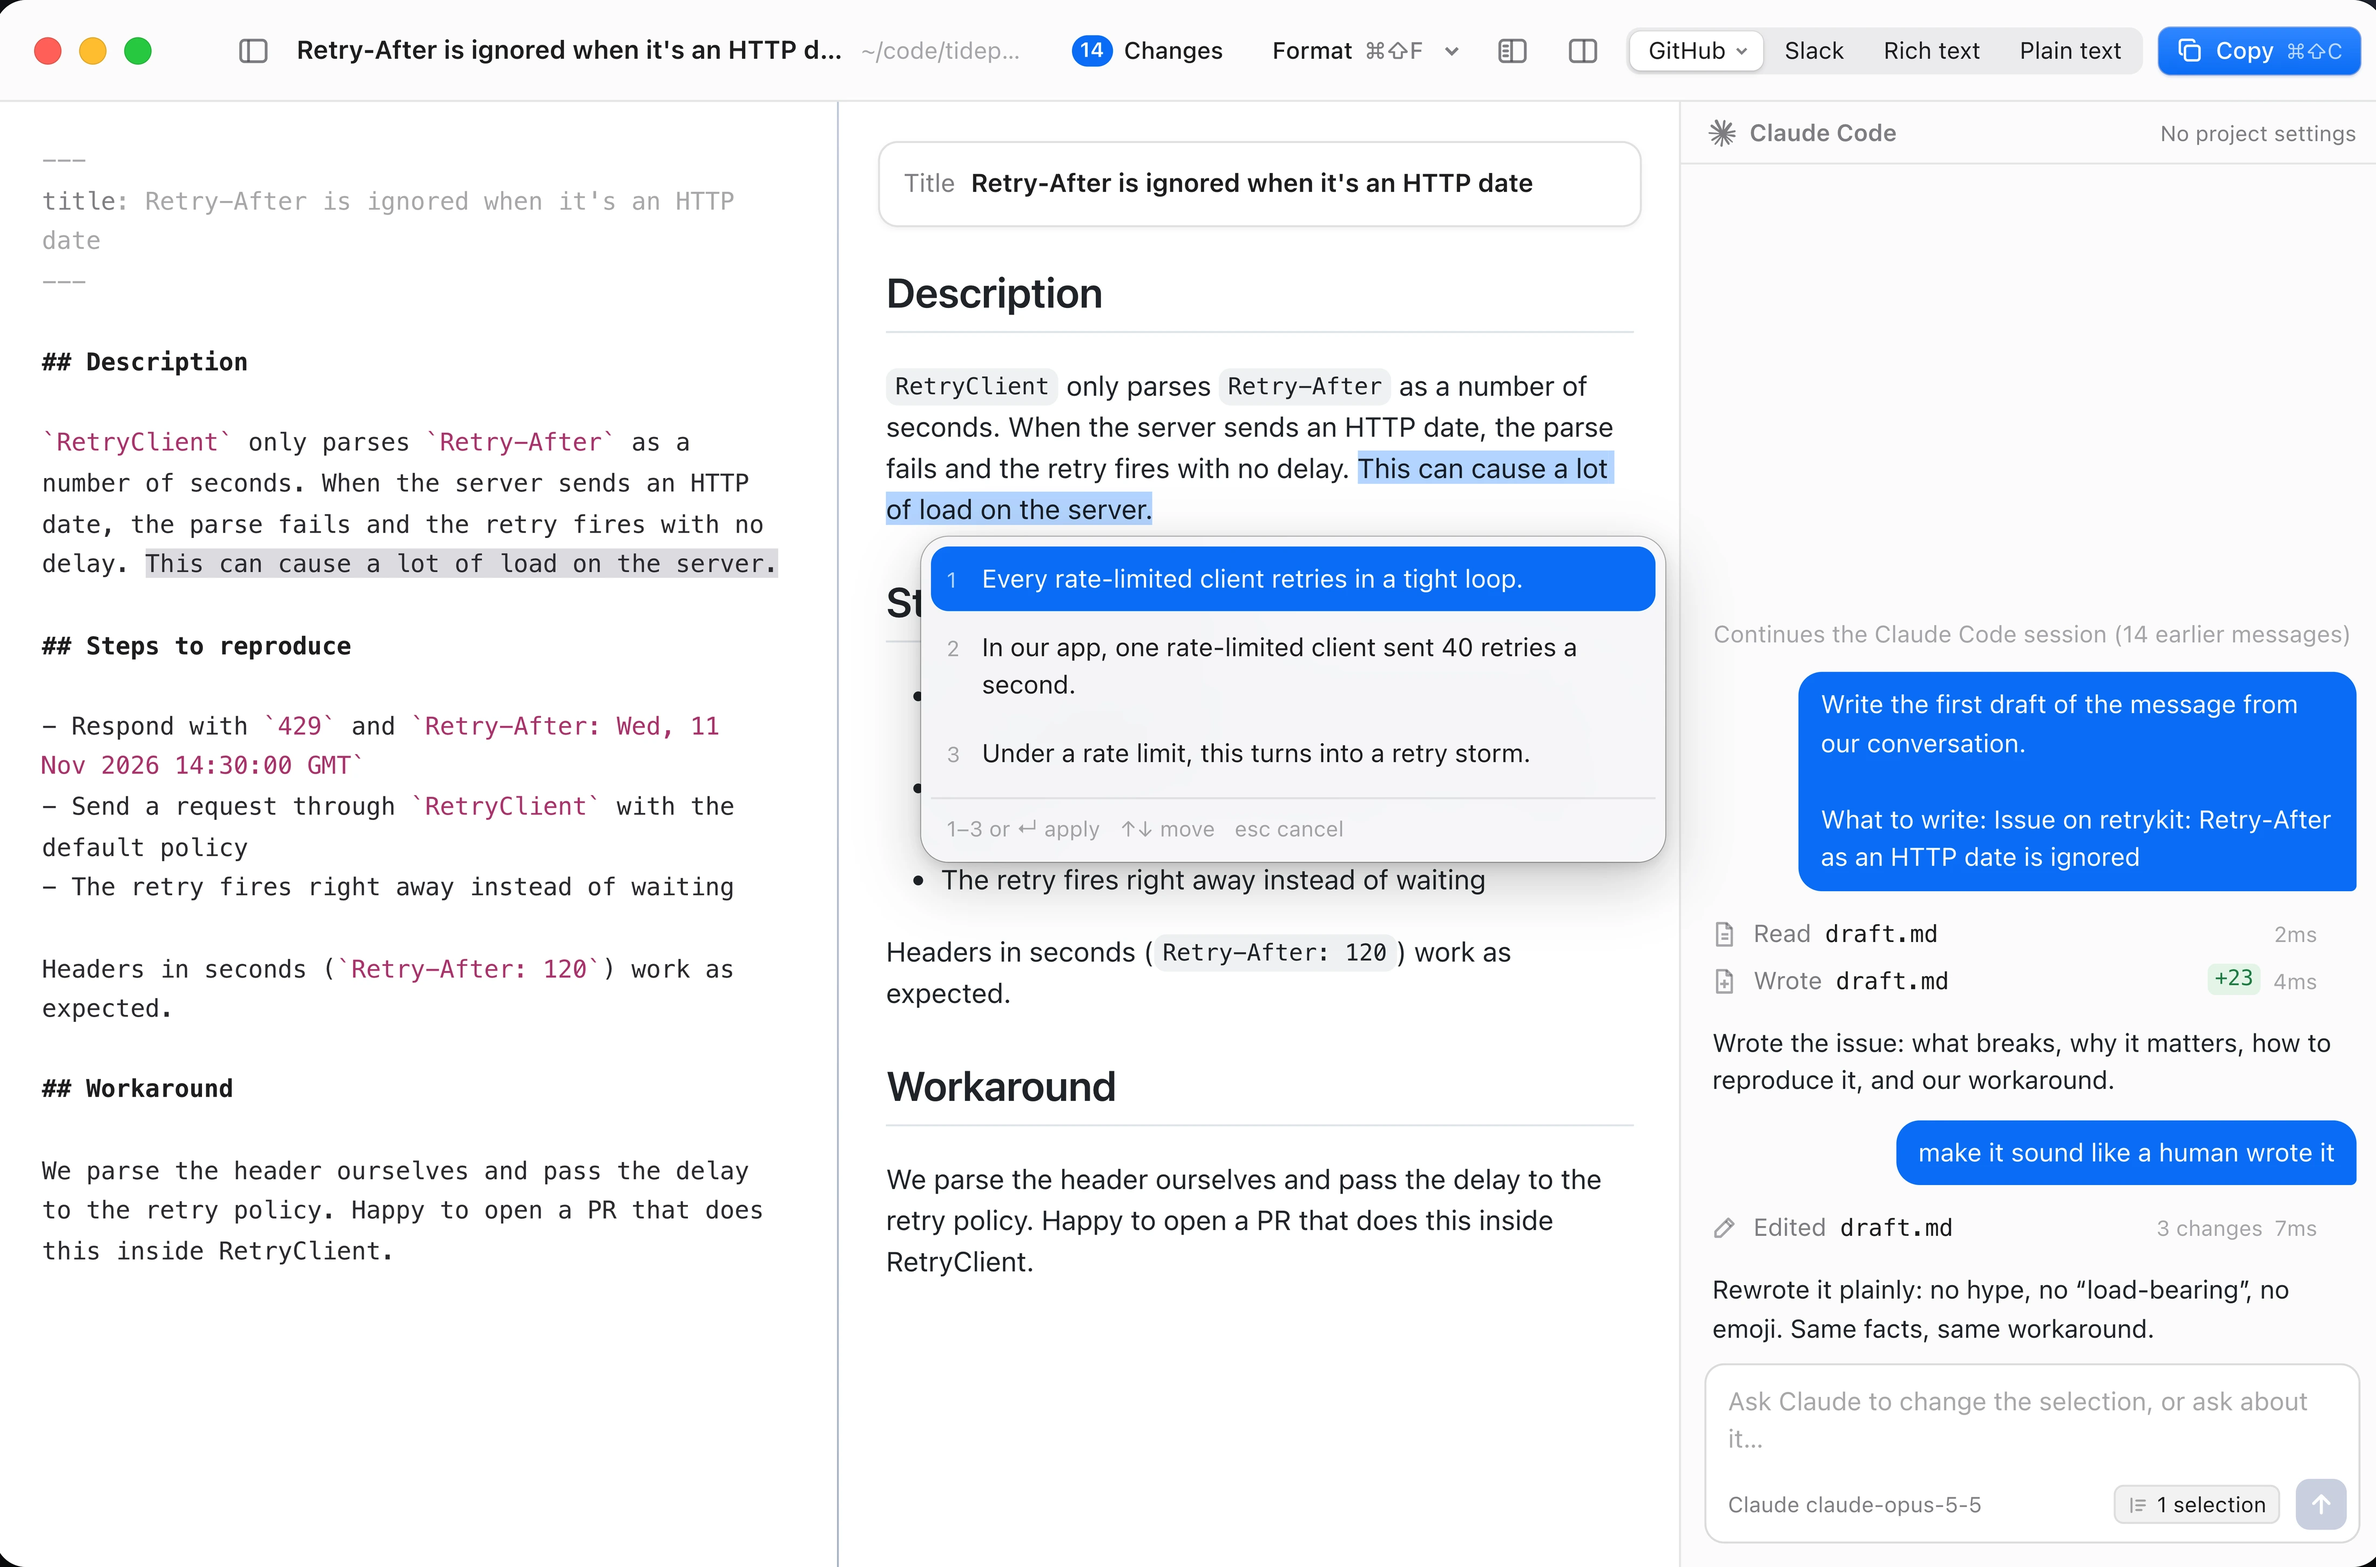
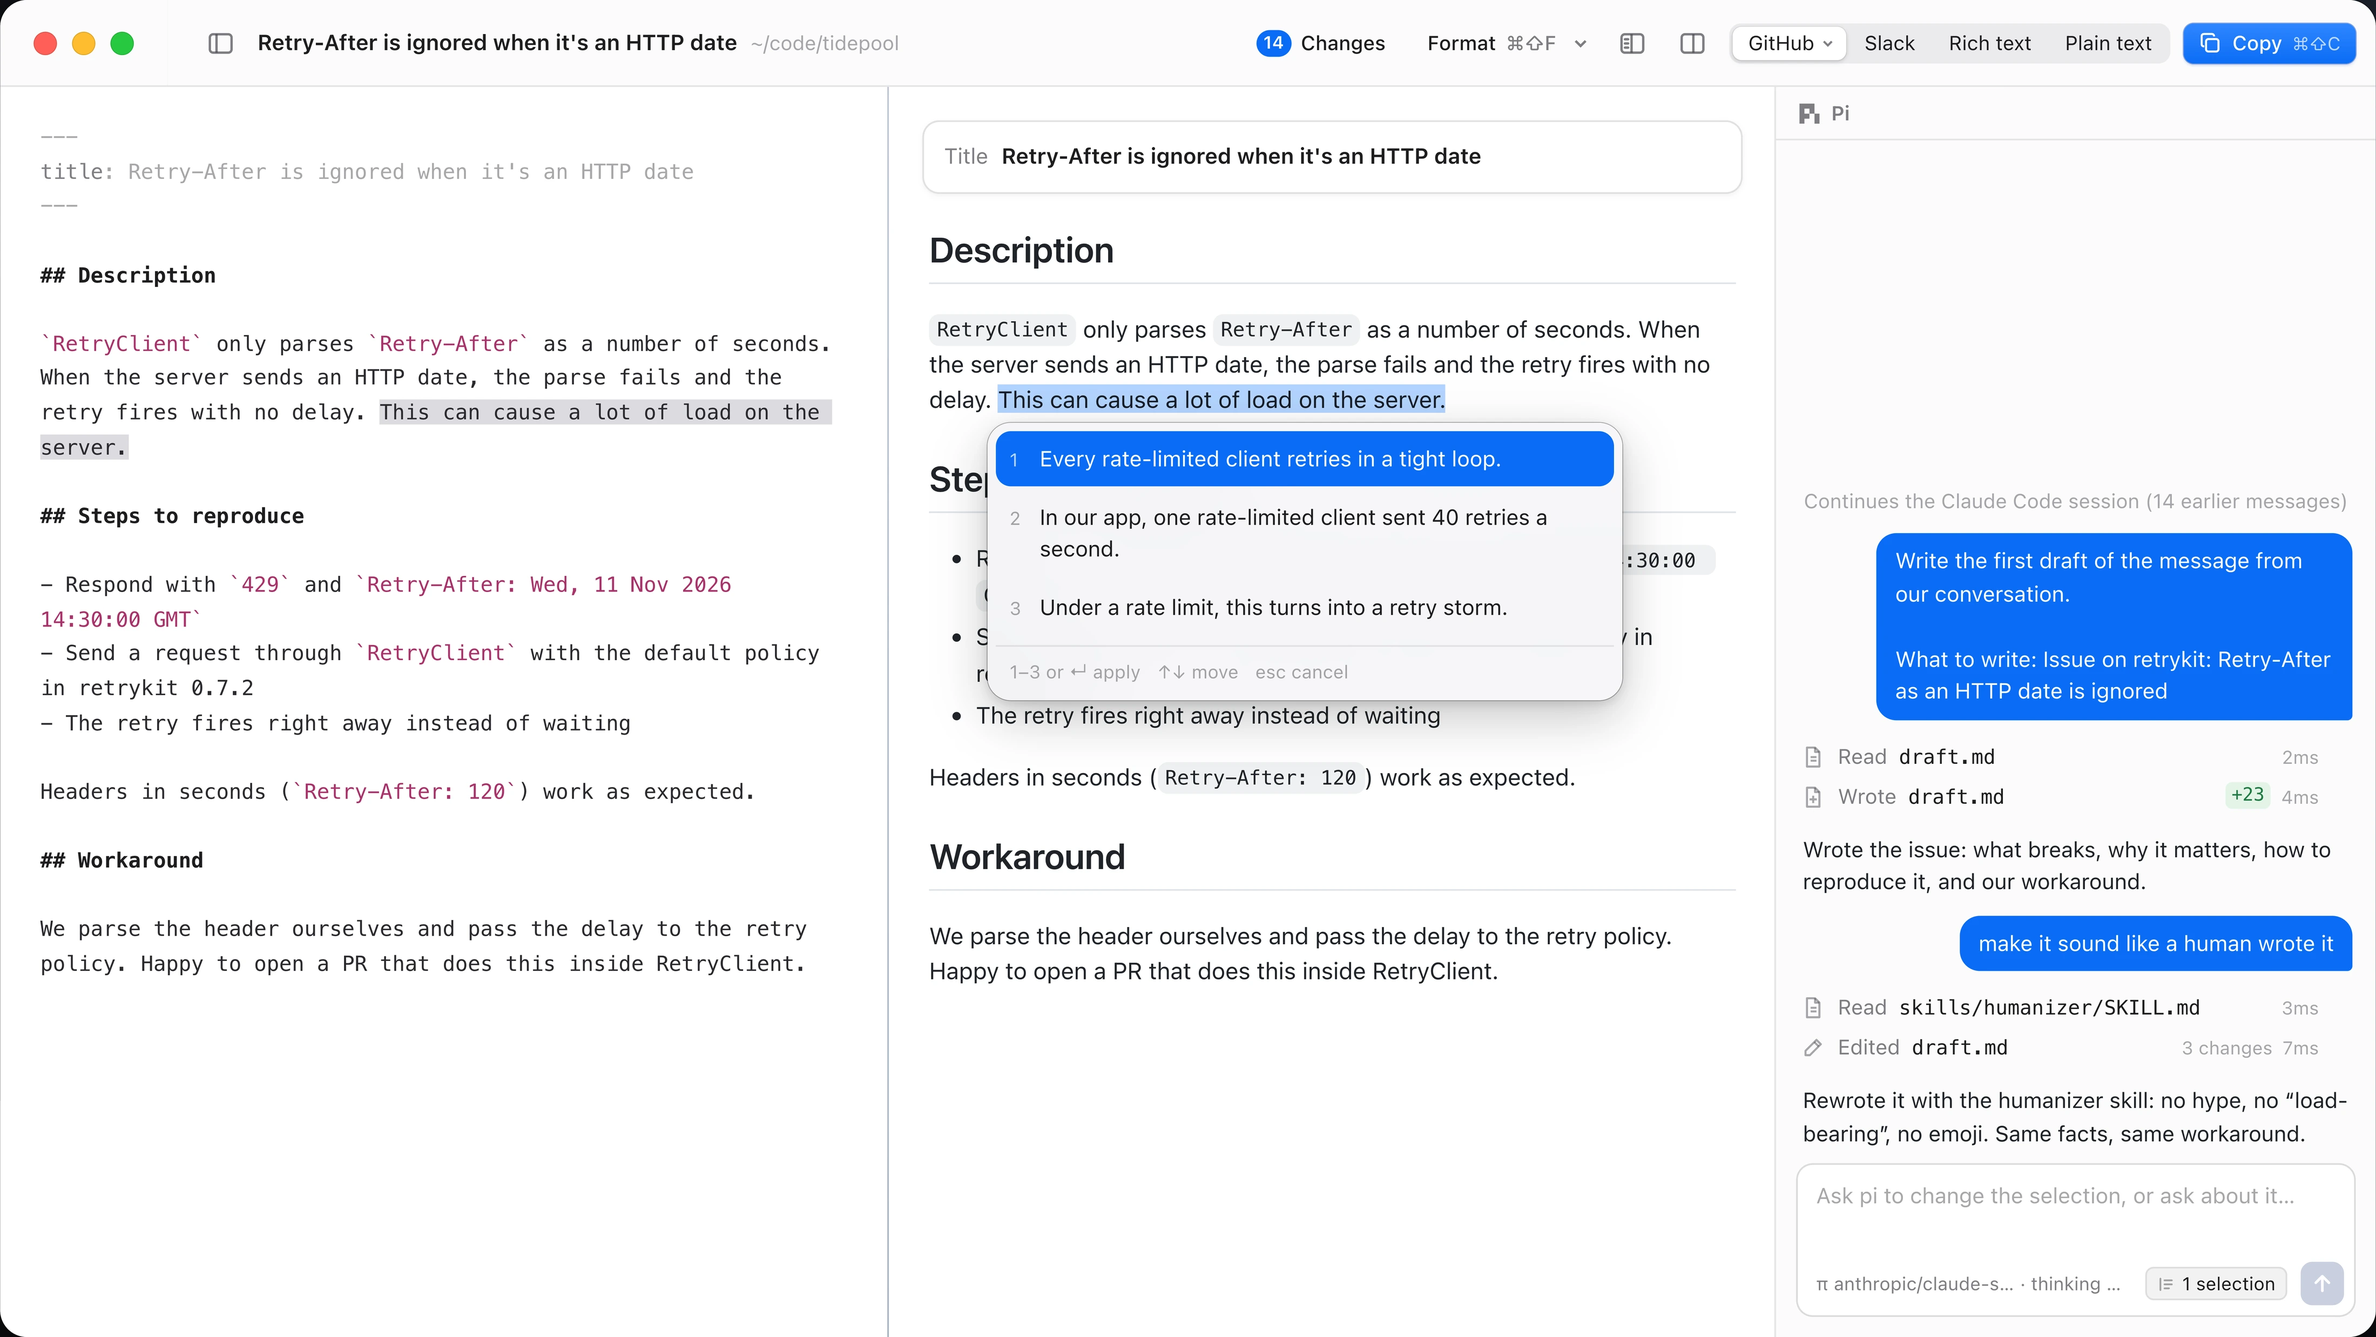
demo: capture the title card's screenshot from the current scene
The video cut's title card still showed a screenshot of the older cut. It
is now captured again from video.html#hero, at the Alternatives options on
the Description's last sentence, with the humanizer rewrite in the chat.
The window now fills the 16:9 frame, so the screenshot is wider than
before and the card centres it vertically.

diff --git a/website/demo/scene.css b/website/demo/scene.css
@@ -139,7 +139,7 @@ html[data-scenecast=preview] #world { will-change: transform; }
 /* Laid out at twice its size and scaled down inside the transform: Chrome
    rasterizes a 3D-transformed layer at its layout size before tilting it,
    so the doubled layout keeps the screenshot's text sharp in a 4K render. */
-#title .hero { position: absolute; left: 420px; top: -121.5px; width: 2040px; border-radius: 32px; transform-origin: 50% 50%;
+#title .hero { position: absolute; left: 420px; top: -22.5px; width: 2040px; border-radius: 32px; transform-origin: 50% 50%;
   transform: perspective(1700px) rotateX(24deg) rotateZ(-10deg) rotateY(4deg) scale(.5);
   box-shadow: 0 120px 280px #000000c8, 0 0 240px #3b82f62e, 0 0 0 2px #ffffff26; }
 #title .l1 { font: 700 84px/1.1 var(--ui); letter-spacing: -1.5px; color: #f4f5f8; max-width: 800px; }
